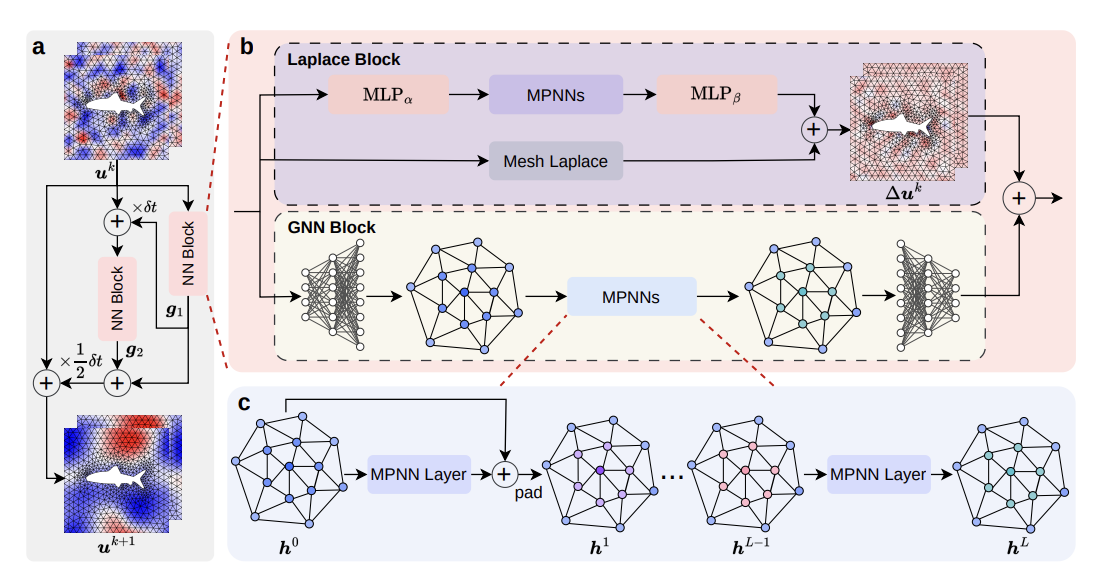
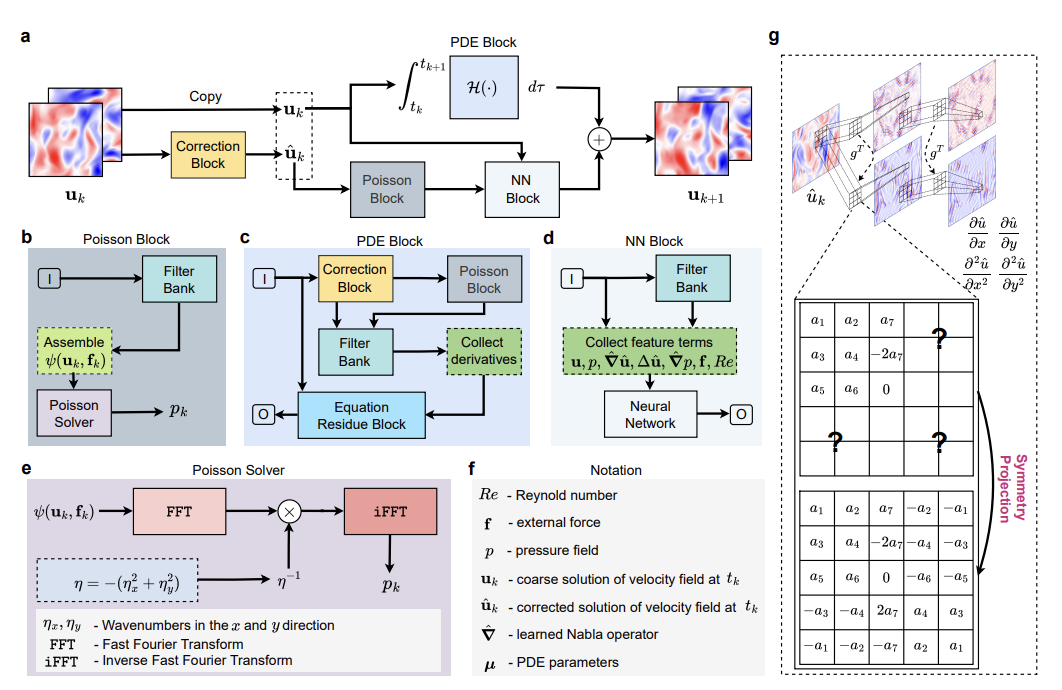
Add PhyMPGN diagram and update publication to use correct filename
- Added PHYMPGN.png diagram for Physics-encoded Message Passing Graph Network paper
- Updated publication object to reference the correct diagram file
- Now 4 papers feature visual diagrams for enhanced reader engagement

diff --git a/src/app/publications/page.tsx b/src/app/publications/page.tsx
@@ -119,7 +119,7 @@ export default function Publications() {
                 description: "We present PhyMPGN, a physics-encoded message passing graph network designed for solving spatiotemporal PDE systems. Our approach integrates physical principles directly into the message passing framework, enabling more accurate and physically consistent predictions for complex spatiotemporal dynamics while maintaining computational efficiency.",
                 blogUrl: "#",
                 paperUrl: "https://arxiv.org/pdf/2410.01337",
-                diagramUrl: "/diagrams/phympgn-framework.png",
+                diagramUrl: "/diagrams/PHYMPGN.png",
                 tags: ["AI4Science", "Graph Neural Networks", "Message Passing", "Physics-encoded", "Spatiotemporal PDEs", "Scientific ML"]
               },
               {
